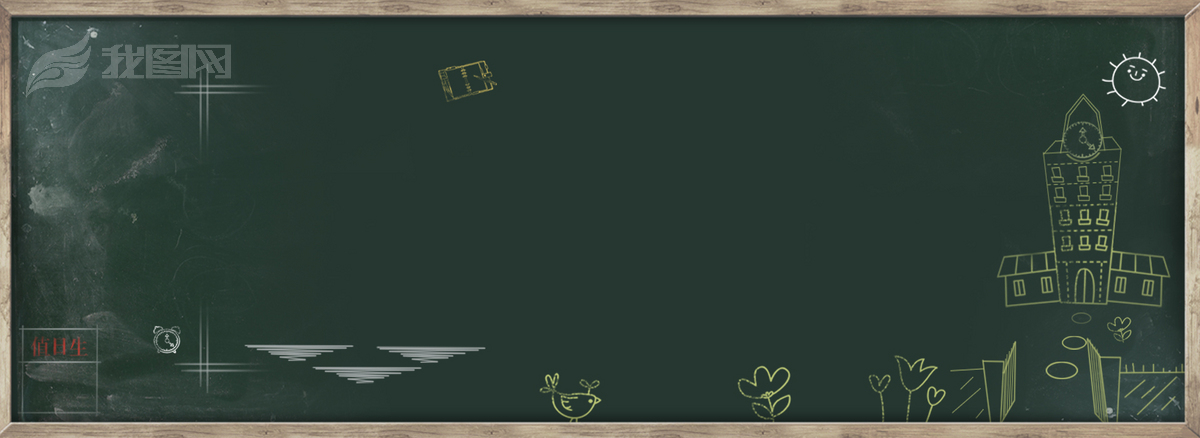
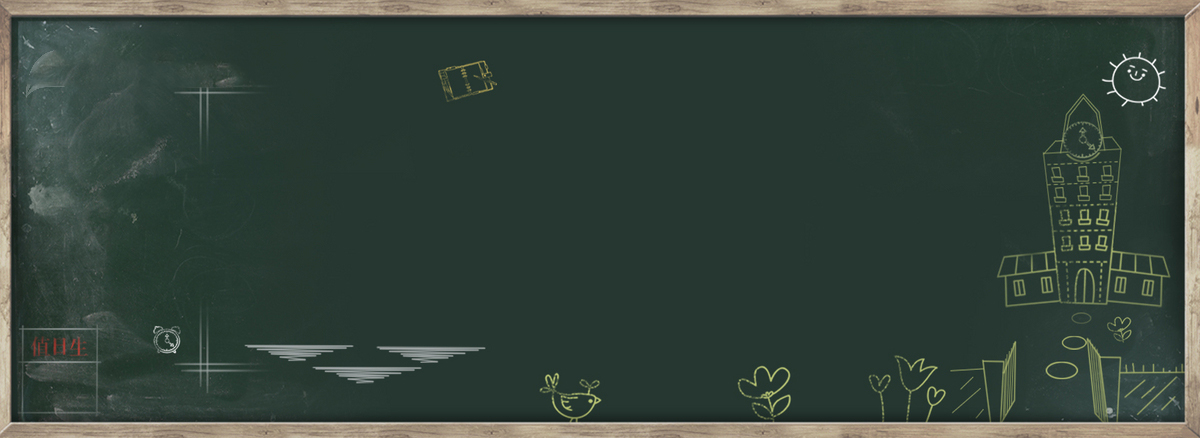
登陆界面修改3

Changed region(s): [[0.0308, 0.0594, 0.2158, 0.2078]]

diff --git a/11.html b/11.html
@@ -3,7 +3,7 @@
 <title>登陆界面</title>
 <meta charset="utf-8">
 <style type="text/css">
-body{font-size: 12px;background-image:url(112233.jpg);background-repeat:repeat;margin: 150px;}
+body{font-size: 12px;background-image:url(1122.jpg);background-repeat:no-repeat; background-position:50% 50%;margin: 150px;}
 td{font-size: 12px;}
 </style>
 </head>
@@ -29,7 +29,7 @@ td{font-size: 12px;}
                     <tbody>
                     <tr>
                       <td height="35" width="133" align="left">
-                        <form id="form1" method="post" name="form1" action="Main.asp">
+                        <form id="form1" method="post" name="form1" action="">
                         <table border="0" cellspacing="0" cellpadding="0" width="183">
                           <tbody>
                           <tr>
